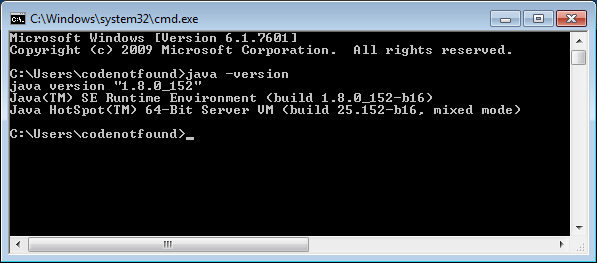
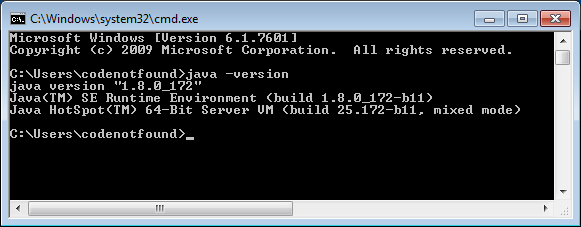
update post

diff --git a/_posts/java/2018-01-13-java-download-install-jdk-8-windows.md b/_posts/java/2018-01-13-java-download-install-jdk-8-windows.md
@@ -1,13 +1,13 @@
 ---
 title: "Java - Download and Install JDK 1.8 on Windows"
 permalink: /java-download-install-jdk-8-windows.html
-excerpt: "A detailed step-by-step tutorial on how to download and install jdk 8u152 on Windows."
+excerpt: "A detailed step-by-step tutorial on how to download and install jdk 8u172 on Windows."
 date: 2018-01-09
 last_modified_at: 2018-01-09
 header:
   teaser: "assets/images/teaser/java-teaser.png"
 categories: [Java]
-tags: [Download, Install, Java, JDK, jdk 8u152, Tutorial, Windows]
+tags: [Download, Install, Java, JDK, jdk 8u172, Tutorial, Windows]
 published: true
 ---
 
@@ -19,7 +19,7 @@ published: true
 
 Java is currently owned by the Oracle Corporation which acquired Sun Microsystems in 2010. Following tutorial will show you how to setup and configure Java 1.8 on Windows so you can develop and run Java code.
 
-Check following posts if you are looking to download and install [JDK 1.5]({{ site.url }}/java-download-install-jdk-5-windows.html), [JDK 1.6]({{ site.url }}/java-download-install-jdk-6-windows.html), [JDK 1.7]({{ site.url }}/java-download-install-jdk-7-windows.html) or [JDK 1.9]({{ site.url }}/java-download-install-jdk-9-windows.html).
+Check following posts if you are looking to download and install [JDK 1.5]({{ site.url }}/java-download-install-jdk-5-windows.html), [JDK 1.6]({{ site.url }}/java-download-install-jdk-6-windows.html), [JDK 1.7]({{ site.url }}/java-download-install-jdk-7-windows.html), [JDK 1.9]({{ site.url }}/java-download-install-jdk-9-windows.html) or [JDK 1.10]({{ site.url }}/java-download-install-jdk-10-windows.html).
 {: .notice--primary}
 
 # JDK Download & Install
@@ -28,9 +28,9 @@ Java can be obtained from the Oracle Java download page. There are a number of [
 
 In order to be able to compile Java code, we need the Java Development Kit (JDK) package that comes with a Java compiler. The JDK package also comes with a Java runtime environment (JRE) that is needed to run compiled Java code.
 
-Scroll to the <var>Java SE 8u151/ 8u152</var> section in the middle of the [Oracle Java download page](http://www.oracle.com/technetwork/java/javase/downloads/index.html){:target="_blank"} and click on the <var>Download</var> button right below <var>JDK</var>. Then look for the <var>Java SE Development Kit 8u152</var> section.
+Scroll to the <var>Java SE 8u171/ 8u172</var> section in the middle of the [Oracle Java download page](http://www.oracle.com/technetwork/java/javase/downloads/index.html){:target="_blank"} and click on the <var>Download</var> button right below <var>JDK</var>. Then look for the <var>Java SE Development Kit 8u172</var> section.
 
-> Here is the direct link to [download the jdk 8u152 installer for Windows 32 or 64 bit](http://www.oracle.com/technetwork/java/javase/downloads/jdk8-downloads-2133151.html){:target="_blank"}.
+> Here is the direct link to [download the jdk 8u172 installer for Windows 32 or 64 bit](http://www.oracle.com/technetwork/java/javase/downloads/jdk8-downloads-2133151.html){:target="_blank"}.
 
 Accept the License Agreement and pick the correct download for your operating system. In this example, we will use the Windows 64 bit version.
 
@@ -38,13 +38,13 @@ Accept the License Agreement and pick the correct download for your operating sy
     <img src="{{ site.url }}/assets/images/posts/java/java-8-download-jdk.png" alt="java 8 download jdk">
 </figure>
 
-Sign in using your Oracle account (or create a new one) and the download should start. Once the download is complete, locate the <var>jdk-8u152-windows-x64.exe</var> file and double-click to run the installer.
+Sign in using your Oracle account (or create a new one) and the download should start. Once the download is complete, locate the <var>jdk-8u172-windows-x64.exe</var> file and double-click to run the installer.
 
 <figure>
     <img src="{{ site.url }}/assets/images/posts/java/java-8-installer-start.png" alt="java 8 installer start">
 </figure>
 
-Click <var>Next</var> and on the following screen optionally change the installation location by clicking on the <var>Change...</var> button. In this example the install location was changed to <var>'C:\Java\jdk1.8.0_152'</var>. From now on we will refer to this directory as: <var>[java_install_dir]</var>.
+Click <var>Next</var> and on the following screen optionally change the installation location by clicking on the <var>Change...</var> button. In this example the default install location of <var>'C:\Program Files\Java\jdk1.8.0_172\'</var> was kept. From now on we will refer to this directory as: <var>[java_install_dir]</var>.
 
 <figure>
     <img src="{{ site.url }}/assets/images/posts/java/java-8-jdk-location.png" alt="java 8 jdk location">
@@ -78,7 +78,7 @@ Environment variables can be set at account level or at system level. For this e
     <img src="{{ site.url }}/assets/images/posts/java/environment-variables.png" alt="environment variables">
 </figure>
 
-Click on the <var>New</var> button and enter "<kbd>JAVA_HOME</kbd>" as variable name and the <var>[java_install_dir]</var> as variable value. In this tutorial the installation directory is <var>'C:\Java\jdk1.8.0_152'</var>. Click <var>OK</var> to to save.
+Click on the <var>New</var> button and enter "<kbd>JAVA_HOME</kbd>" as variable name and the <var>[java_install_dir]</var> as variable value. In this tutorial the installation directory is <var>'C:\Program Files\Java\jdk1.8.0_172'</var>. Click <var>OK</var> to to save.
 
 <figure>
     <img src="{{ site.url }}/assets/images/posts/java/java-8-set-home.png" alt="java 8 set home">
